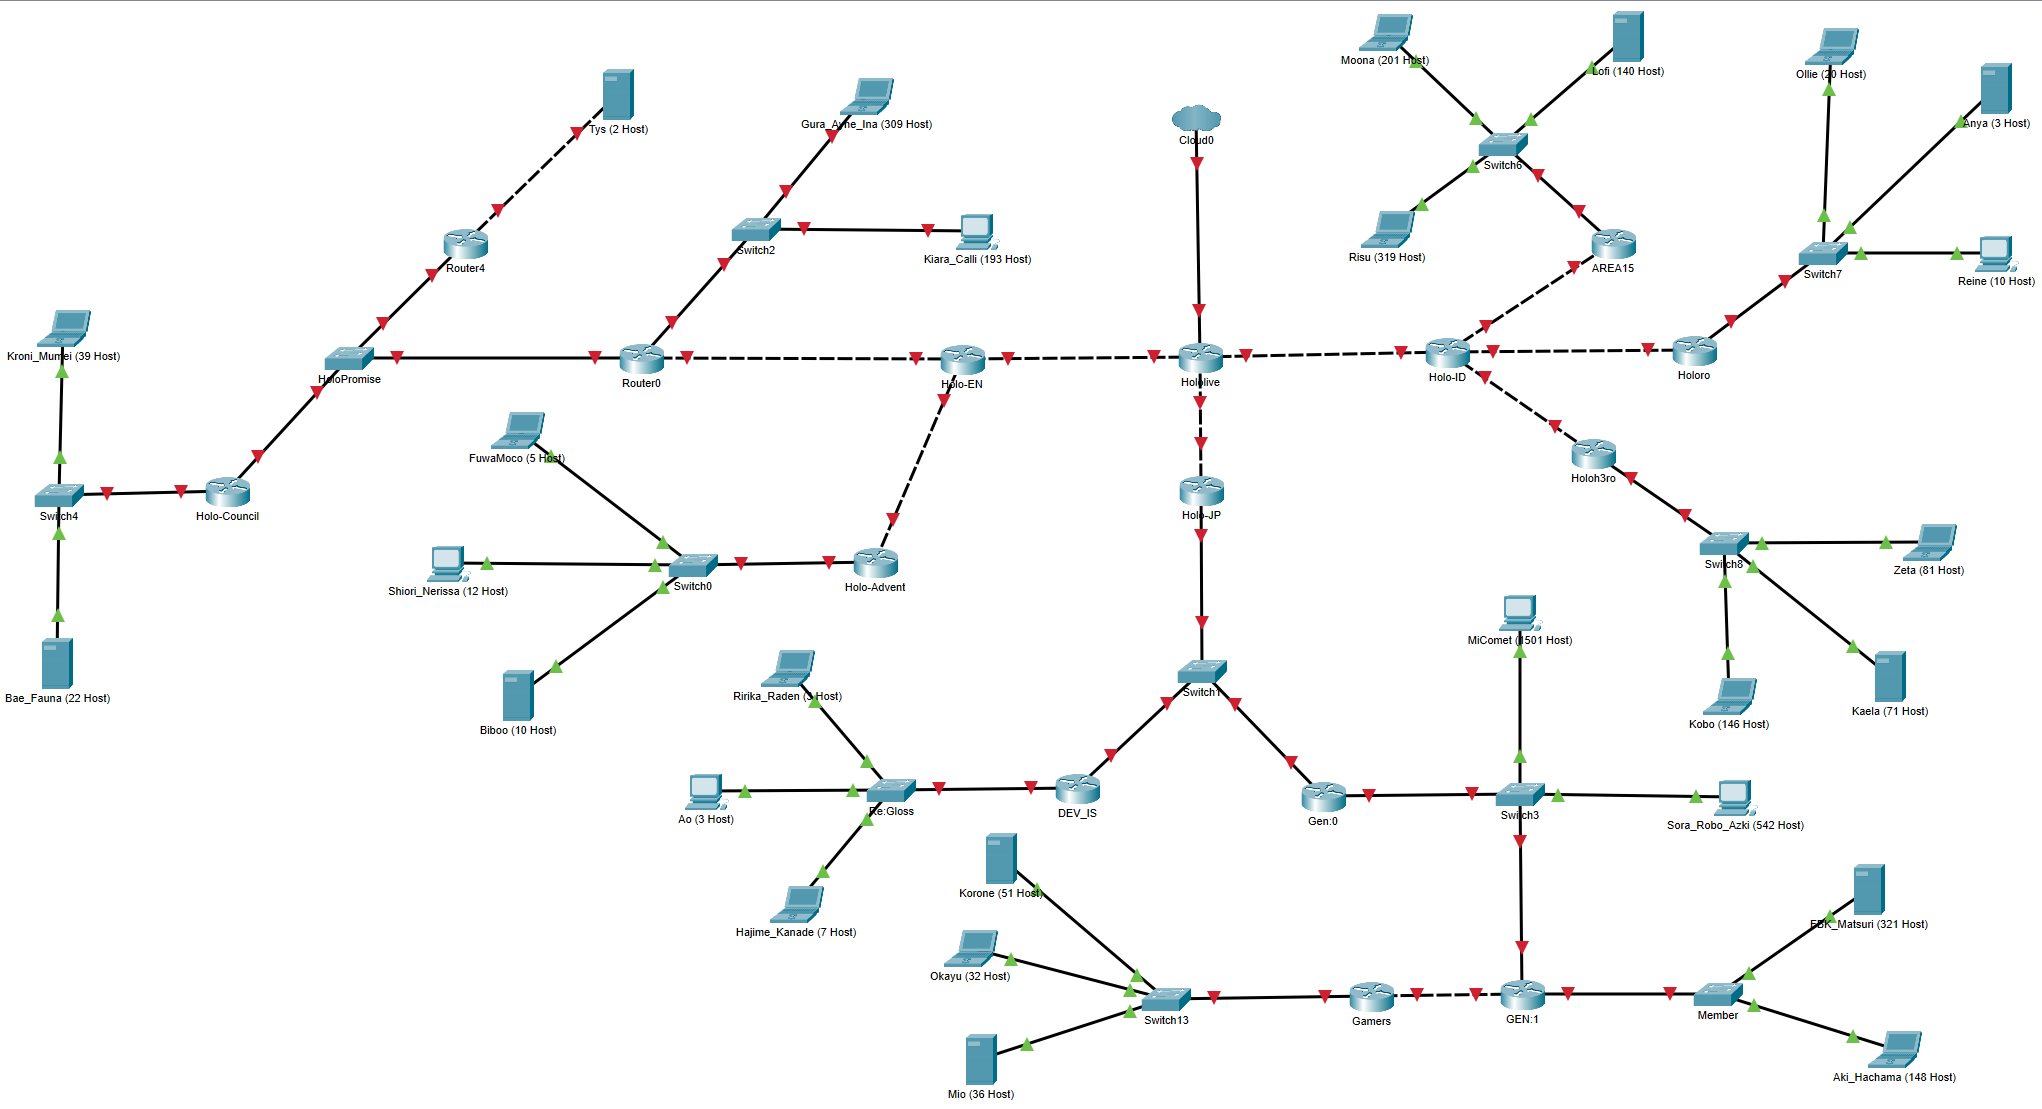
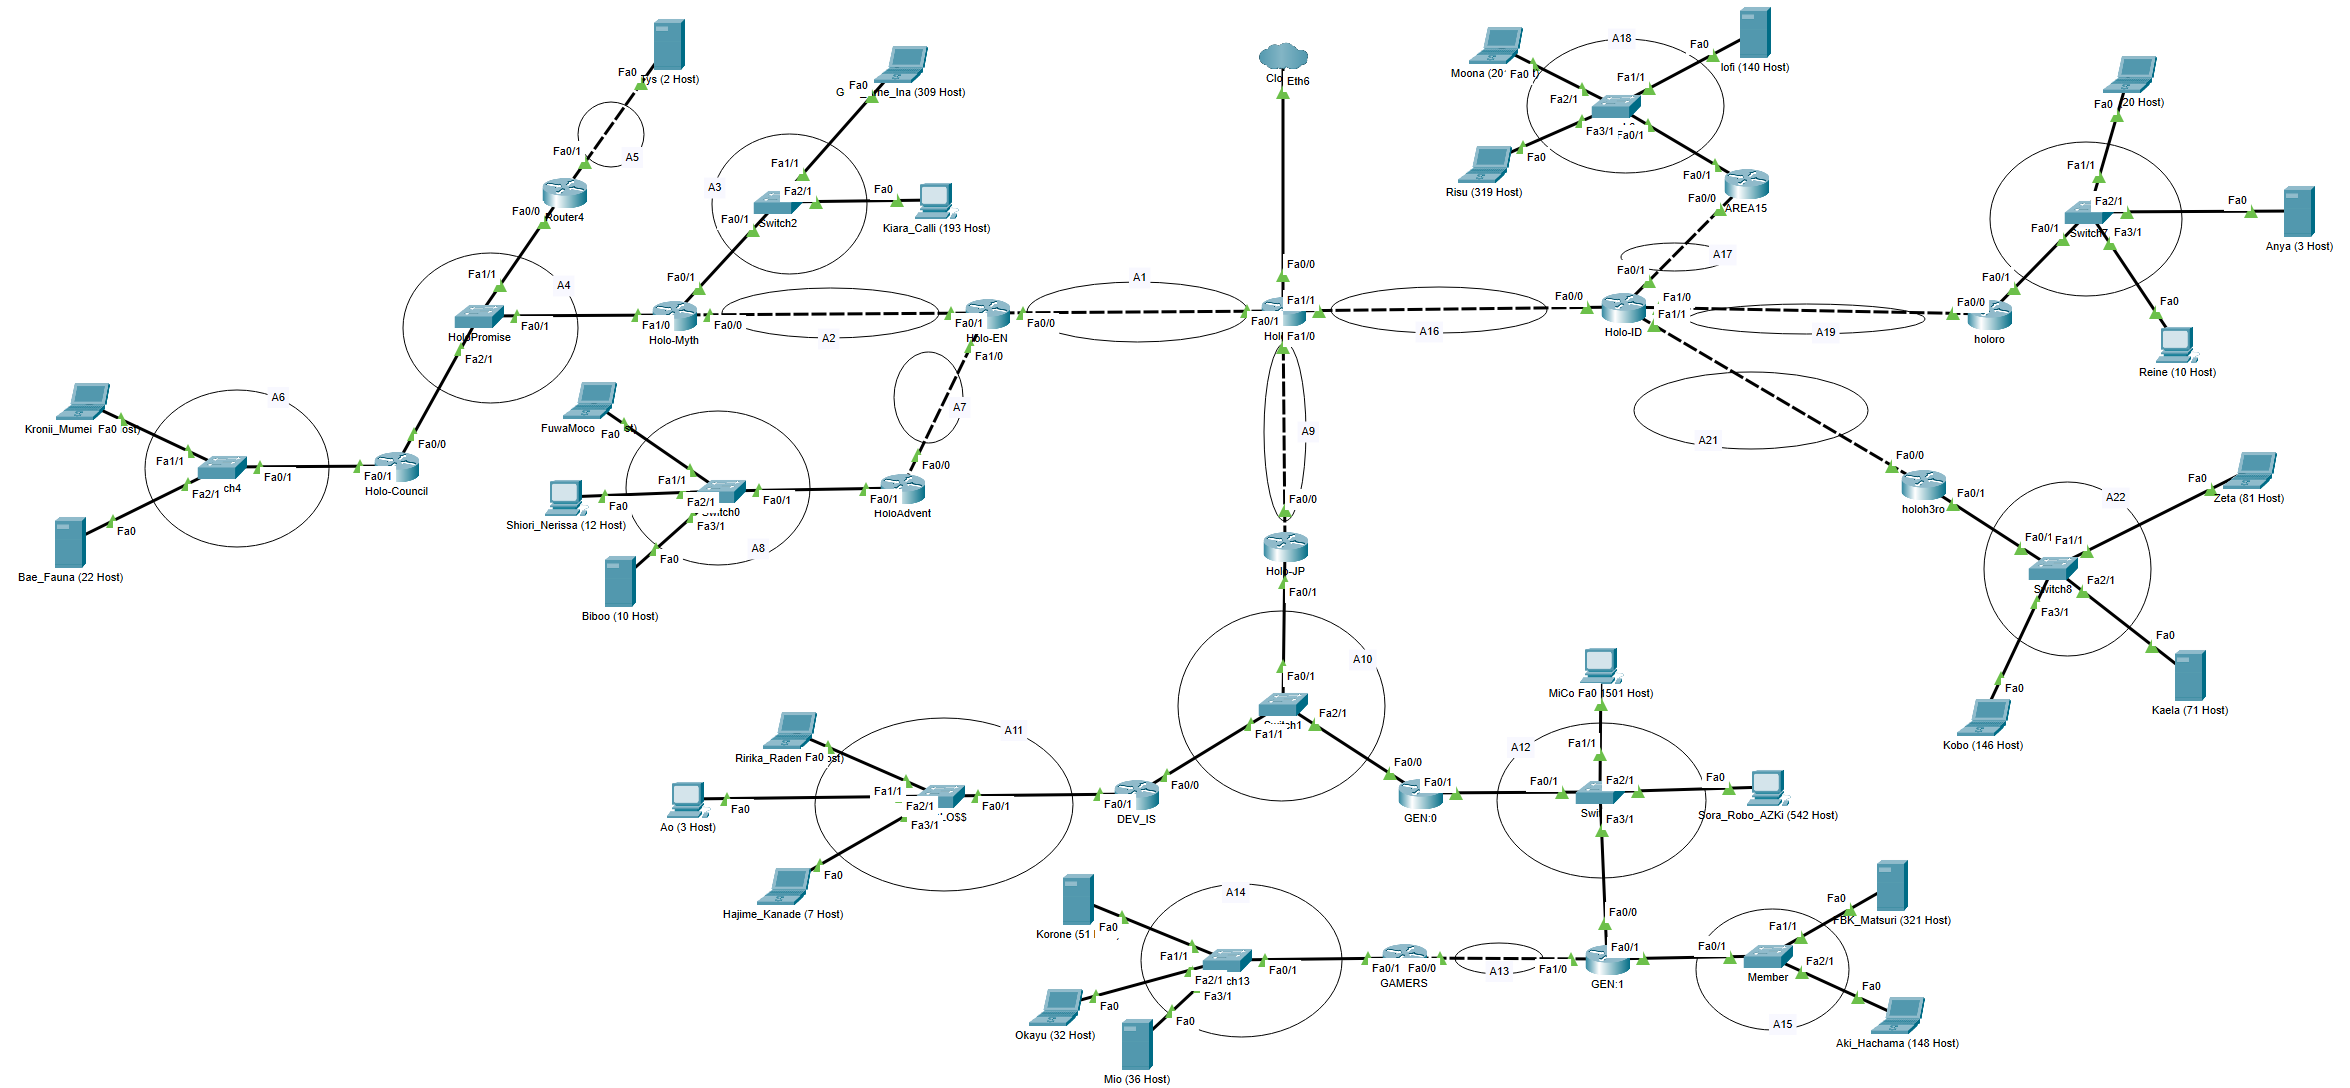
finish vlsm

diff --git a/README.md b/README.md
@@ -13,95 +13,158 @@
 
 ## DAFTAR ISI
 
-- [Topologi](#topologi)
 - [Rute Subnet](#rute-subnet)
 - [VLSM](#vlsm)
 - [CIDR](#cidr)
 
-## TOPOLOGI
-
-### Cisco Packet Tracer | VLSM |
+## Topologi Cisco Packet Tracer | VLSM |
 
 ![alt text](<img/Topologi CPT.png>)
 
-Setelah Subnetting :
-
-![alt text](<img/Topologi GNS Subnet.png>)
-
 ## RUTE SUBNET
 
-| Nama Subnet | Rute                                                                        | Jumlah IP | Netmask |
-| ----------- | --------------------------------------------------------------------------- | --------- | ------- |
-| A1          | HoloLive - HoloEn                                                           | 2         | /30     |
-| A2          | HoloEn - Router0                                                            | 2         | /30     |
-| A3          | Router0 - Switch2 - Gura_Ayne_Ina - Switch2 - Kiara_Calli                   | 503       | /23     |
-| A4          | HoloEn - HoloAdvent                                                         | 2         | /30     |
-| A5          | HoloAdvent - Switch0 - FuwaMoco - Switch0 - ShioriNerissa - Switch- - Biboo | 28        | /27     |
-| A6          | Router0 - HoloPromise - HoloCouncil - HoloPromise - Router4                 | 3         | /29     |
-| A7          | Router4 - Tys                                                               | 3         | /29     |
-| A8          | HoloCouncil - Switch4 - KroniMumei - Switch4 - BaeFauna                     | 62        | /26     |
-| A9          | HoloLive - HoloID                                                           | 2         | /30     |
-| A10         | HoloID - AREA15                                                             | 2         | /30     |
-| A11         | AREA15 - Switch6 - Risu - Switch6 - Moona - Switch6 - Lofi                  | 661       | /22     |
-| A12         | HoloID - Holoro                                                             | 2         | /30     |
-| A13         | Holoro - Switch7 - Ollie - Switch7 - Anya - Switch7 - Reine                 | 34        | /26     |
-| A14         | HoloID - Holoh3ro                                                           | 2         | /30     |
-| A15         | Holoh3ro - Switch8 - Zeta - Switch8 - Kaela - Switch8 - Kobo                | 299       | /23     |
-| A16         | HoloLive - HoloJP                                                           | 2         | /30     |
-| A17         | HoloJP - Switch1 - DEV_IS - Switch1 - GEN:0                                 | 3         | /29     |
-| A18         | DEV_IS - Re:Gloss - RirikaRaden - Re:Gloss - Ao - Re:Gloss - HajimeKanade   | 14        | /28     |
-| A19         | GEN:0 - Switch3 - MiComet - Switch3 - SoraRoboAzki - Switch3 -GEN:1         | 2045      | /21     |
-| A20         | GEN:1 - Gamers                                                              | 2         | /30     |
-| A21         | Gamers - Switch13 - Korone - Switch13 - Okayu - Switch13 - Mio              | 120       | /25     |
-| A22         | GEN:1 - Member - FBK_Matsuri - Member - Aki_Hachama                         | 470       | /23     |
-| TOTAL       |                                                                             | 4263      | /19     |
+| Nama Subnet | Rute                                                                                        | Jumlah IP | Netmask |
+| ----------- | ------------------------------------------------------------------------------------------- | --------- | ------- |
+| A1          | Hololive > HoloEN                                                                           | 2         | /30     |
+| A2          | Hololive > HoloEN > Holo-Myth                                                               | 2         | /30     |
+| A3          | Hololive > HoloEN > Holo-Myth > SW2 > Gura_Ame_Ina, Kiara Calli                             | 503       | /23     |
+| A4          | Hololive > HoloEN > Holo-Myth > HoloPromise > Router4, Holo-Council                         | 3         | /29     |
+| A5          | Hololive > HoloEN > Holo-Myth > HoloPromise > Router4 > Tys                                 | 3         | /29     |
+| A6          | Hololive > HoloEN > Holo-Myth > HoloPromise > Holo-Council > SW4 > Kronii_Mumei, Bae_Fauna  | 62        | /26     |
+| A7          | Hololive > HoloEN > HoloAdvent                                                              | 2         | /30     |
+| A8          | Hololive > HoloEN > HoloAdvent > SW0 > FuwaMoco, Shiori_Nerissa, Biboo                      | 28        | /27     |
+| A9          | Hololive > Holo-JP                                                                          | 2         | /30     |
+| A10         | Hololive > Holo-JP > SW1 > DEV_IS, GEN:0                                                    | 3         | /29     |
+| A11         | Hololive > Holo-JP > SW1 > DEV_IS > Re:GLO$$ > Ririka_Raden, Ao, Hajime_Kanade              | 14        | /28     |
+| A12         | Hololive > Holo-JP > SW1 > DEV_IS, GEN:0 > SW3 > MiComet, Sora_Robo_AZki, GEN:1             | 2045      | /21     |
+| A13         | Hololive > Holo-JP > SW1 > DEV_IS, GEN:0 > SW3 > GEN:1 > GAMERS                             | 2         | /30     |
+| A14         | Hololive > Holo-JP > SW1 > DEV_IS, GEN:0 > SW3 > GEN:1 > GAMERS > SW13 > Korone, Okayu, Mio | 120       | /25     |
+| A15         | Hololive > Holo-JP > SW1 > DEV_IS, GEN:0 > SW3 > GEN:1 > Member > PBK_Matsuri, Aki_Hachama  | 470       | /23     |
+| A16         | Hololive > Holo-ID                                                                          | 2         | /30     |
+| A17         | Hololive > Holo-ID > SW6 > AREA15                                                           | 2         | /30     |
+| A18         | Hololive > Holo-ID > SW6 > AREA15 > Moona, Bisu, lofi                                       | 661       | /22     |
+| A19         | Hololive > Holo-ID > holoro                                                                 | 2         | /30     |
+| A20         | Hololive > Holo-ID > holoro > SW7, Ollie, Anya, Reine                                       | 34        | /26     |
+| A21         | Hololive > Holo-ID > holoh3ro                                                               | 2         | /30     |
+| A22         | Hololive > Holo-ID > holoh3ro > SW8 > Zeta, Kaela, Kobo                                     | 299       | /23     |
+| TOTAL       |                                                                                             | 4263      | /19     |
 
 ## VLSM
 
 Metode VLSM Sendiri disini digunakan pada Cisco Packet Tracer `CPT`
 
-### TREE VLSM
+## TREE VLSM
 
 Berikut Treenya :
 
-![alt text](<img/VLSM Tree.png>)
+![alt text](<img/VLSM TREE CPT.png>)
 
 ## PEMBAGIAN IP VLSM
 
 Berikut Pembagian IPnya :
 
-| Subnet | Network ID      | Netmask         | Broadcast    | IP Range                    |
-| ------ | --------------- | --------------- | ------------ | --------------------------- |
-| A19    | 10.77.0.0/21    | 255.255.248.0   | 10.77.7.255  | 10.77.0.1 - 10.77.7.254     |
-| A11    | 10.77.8.0/22    | 255.255.252.0   | 10.77.11.255 | 10.77.8.1 - 10.77.11.254    |
-| A22    | 10.77.12.0/23   | 255.255.254.0   | 10.77.13.255 | 10.77.12.1 - 10.77.13.254   |
-| A15    | 10.77.14.0/23   | 255.255.254.0   | 10.77.15.255 | 10.77.14.1 - 10.77.15.254   |
-| A3     | 10.77.16.0/23   | 255.255.254.0   | 10.77.17.255 | 10.77.16.1 - 10.77.17.254   |
-| A21    | 10.77.18.0/25   | 255.255.255.128 | 10.77.18.127 | 10.77.18.1 - 10.77.18.126   |
-| A13    | 10.77.18.128/26 | 255.255.255.192 | 10.77.18.191 | 10.77.18.129 - 10.77.18.190 |
-| A8     | 10.77.18.192/26 | 255.255.255.192 | 10.77.18.255 | 10.77.18.193 - 10.77.18.254 |
-| A5     | 10.77.19.0/27   | 255.255.255.224 | 10.77.19.31  | 10.77.19.1 - 10.77.19.30    |
-| A18    | 10.77.19.32/28  | 255.255.255.240 | 10.77.19.47  | 10.77.19.33 - 10.77.19.46   |
-| A6     | 10.77.19.48/29  | 255.255.255.248 | 10.77.19.55  | 10.77.19.49 - 10.77.19.54   |
-| A7     | 10.77.19.56/29  | 255.255.255.248 | 10.77.19.63  | 10.77.19.57 - 10.77.19.62   |
-| A17    | 10.77.19.64/29  | 255.255.255.248 | 10.77.19.71  | 10.77.19.65 - 10.77.19.70   |
-| A1     | 10.77.19.72/30  | 255.255.255.252 | 10.77.19.75  | 10.77.19.73 - 10.77.19.74   |
-| A2     | 10.77.19.76/30  | 255.255.255.252 | 10.77.19.79  | 10.77.19.77 - 10.77.19.78   |
-| A4     | 10.77.19.80/30  | 255.255.255.252 | 10.77.19.83  | 10.77.19.81 - 10.77.19.82   |
-| A9     | 10.77.19.84/30  | 255.255.255.252 | 10.77.19.87  | 10.77.19.85 - 10.77.19.86   |
-| A10    | 10.77.19.88/30  | 255.255.255.252 | 10.77.19.91  | 10.77.19.89 - 10.77.19.90   |
-| A12    | 10.77.19.92/30  | 255.255.255.252 | 10.77.19.95  | 10.77.19.93 - 10.77.19.94   |
-| A14    | 10.77.19.96/30  | 255.255.255.252 | 10.77.19.99  | 10.77.19.97 - 10.77.19.98   |
-| A16    | 10.77.19.100/30 | 255.255.255.252 | 10.77.19.103 | 10.77.19.101 - 10.77.19.102 |
-| A20    | 10.77.19.104/30 | 255.255.255.252 | 10.77.19.107 | 10.77.19.105 - 10.77.19.106 |
+| Subnet | Network ID   | Netmask         | Broadcast    | Range IP                    |
+| ------ | ------------ | --------------- | ------------ | --------------------------- |
+| A12    | 10.77.0.0    | 255.255.248.0   | 10.77.7.255  | 10.77.0.1 - 10.77.7.254     |
+| A18    | 10.77.8.0    | 255.255.252.0   | 10.77.11.255 | 10.77.8.1 - 10.77.11.254    |
+| A3     | 10.77.12.0   | 255.255.254.0   | 10.77.13.255 | 10.77.12.1 - 10.77.13.254   |
+| A15    | 10.77.14.0   | 255.255.254.0   | 10.77.15.255 | 10.77.14.1 - 10.77.15.254   |
+| A22    | 10.77.16.0   | 255.255.254.0   | 10.77.17.255 | 10.77.16.1 - 10.77.17.254   |
+| A14    | 10.77.18.0   | 255.255.255.128 | 10.77.18.127 | 10.77.18.1 - 10.77.18.126   |
+| A6     | 10.77.18.128 | 255.255.255.192 | 10.77.18.191 | 10.77.18.129 - 10.77.18.190 |
+| A20    | 10.77.18.192 | 255.255.255.192 | 10.77.18.255 | 10.77.18.193 - 10.77.18.254 |
+| A8     | 10.77.19.0   | 255.255.255.224 | 10.77.19.31  | 10.77.19.1 - 10.77.19.30    |
+| A11    | 10.77.19.32  | 255.255.255.240 | 10.77.19.47  | 10.77.19.33 - 10.77.19.46   |
+| A4     | 10.77.19.48  | 255.255.255.248 | 10.77.19.55  | 10.77.19.49 - 10.77.19.54   |
+| A5     | 10.77.19.56  | 255.255.255.248 | 10.77.19.63  | 10.77.19.57 - 10.77.19.62   |
+| A10    | 10.77.19.64  | 255.255.255.248 | 10.77.19.71  | 10.77.19.65 - 10.77.19.70   |
+| A1     | 10.77.19.72  | 255.255.255.252 | 10.77.19.75  | 10.77.19.73 - 10.77.19.74   |
+| A2     | 10.77.19.76  | 255.255.255.252 | 10.77.19.79  | 10.77.19.77 - 10.77.19.78   |
+| A7     | 10.77.19.80  | 255.255.255.252 | 10.77.19.83  | 10.77.19.81 - 10.77.19.82   |
+| A9     | 10.77.19.84  | 255.255.255.252 | 10.77.19.87  | 10.77.19.85 - 10.77.19.86   |
+| A13    | 10.77.19.88  | 255.255.255.252 | 10.77.19.91  | 10.77.19.89 - 10.77.19.90   |
+| A16    | 10.77.19.92  | 255.255.255.252 | 10.77.19.95  | 10.77.19.93 - 10.77.19.94   |
+| A17    | 10.77.19.96  | 255.255.255.252 | 10.77.19.99  | 10.77.19.97 - 10.77.19.98   |
+| A19    | 10.77.19.100 | 255.255.255.252 | 10.77.19.103 | 10.77.19.101 - 10.77.19.102 |
+| A21    | 10.77.19.104 | 255.255.255.252 | 10.77.19.107 | 10.77.19.105 - 10.77.19.106 |
 
-## KONFIGURASI
+## KONFIGURASI ROUTING
+
+### Hololive
+
+![alt text](<img/Hololive (1).png>)
+
+![alt text](<img/Hololive (2).png>)
+
+![alt text](<img/Hololive (3).png>)
+
+![alt text](<img/Hololive (4).png>)
+
+### Holo-EN
+
+![alt text](img/Holo-En.png)
+
+### Holo-Myth
+
+![alt text](img/Holo-Myth.png)
+
+### Holo-Council
+
+![alt text](img/Holo-Council.png)
+
+### Router4
+
+![alt text](img/Router4.png)
+
+### HoloAdvent
+
+![alt text](img/Holo-Advent.png)
+
+### Holo-JP
+
+![alt text](img/Holo-JP.png)
+
+### DEV_IS
+
+![alt text](img/DEV_IS.png)
+
+### GEN:0
+
+![alt text](<img/GEN 0.png>)
+
+### GEN:1
+
+![alt text](<img/GEN 1.png>)
+
+### GAMERS
+
+![alt text](img/GAMERS.png)
+
+### Holo-ID
+
+![alt text](img/Holo-ID.png)
+
+### AREA15
+
+![alt text](img/AREA15.png)
+
+### Holoro
+
+![alt text](img/Holoro.png)
+
+### Holoh3ro
+
+![alt text](img/Holoh3ro.png)
+
+## HASIL PENGUJIAN CPT | VLSM |
+
+![alt text](<img/Uji VLSM.png>)
 
 ## CIDR
 
 Metode CIDR disini menggunakan GNS3 untuk pengaplikasiannya
 
-### Topologi CIDR |GNS3|
+## Topologi CIDR |GNS3|
 
 Gabungan 1
 
@@ -149,7 +212,7 @@ Gabungan 10
 
 ![alt text](<img/gabungan v-ix.png>)
 
-### Tree CIDR 
+### Tree CIDR
 
 ![alt text](<img/cidr tree.jpg>)
 
